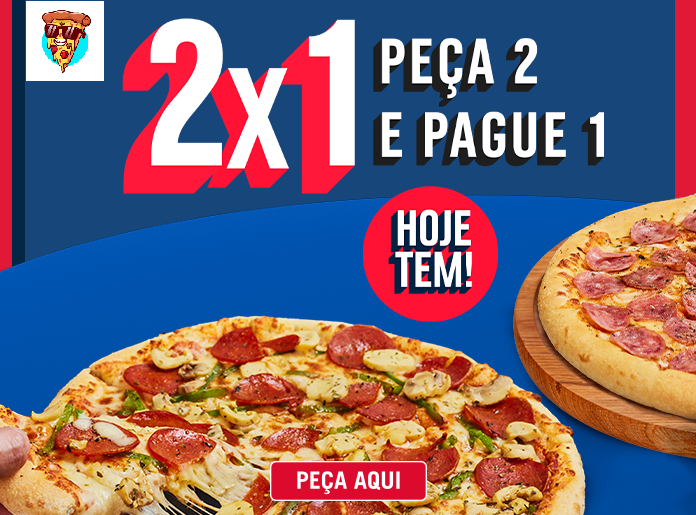
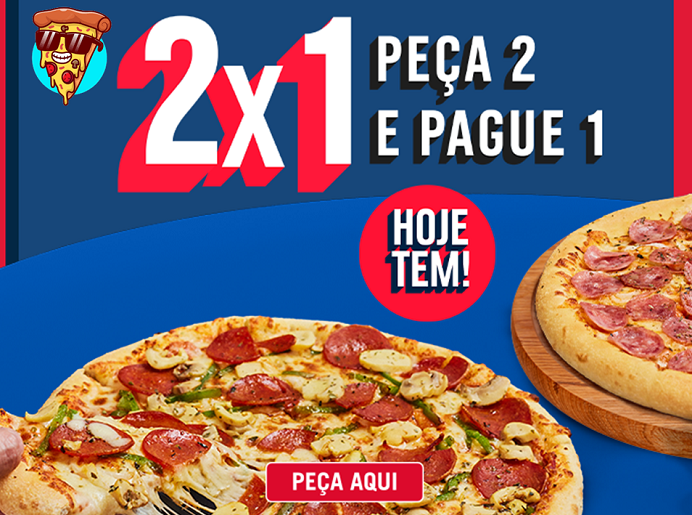
a

diff --git a/pizzas/pizzaria.html b/pizzas/pizzaria.html
@@ -2,13 +2,14 @@
 <!DOCTYPE html>
 <html lang="pt-br">
 <head>
+    <title>'s Home Page - PUZZA's Pizza, Order Pizza Online for Delivery - PUZZA.com</title>
     <meta charset="UTF-8">
+    <link rel="shortcut icon" href="./images-removebg-preview.png">
     <meta http-equiv="X-UA-Compatible" content="IE=edge">
     <meta name="viewport" content="width=device-width, initial-scale=1.0">
-    <title>PUZZA's Home Page - PUZZA's Pizza, Order Pizza Online for Delivery - PUZZA.com</title>
     <header>
         <div>
-            <a href="http://127.0.0.1:5500/pizzas/pizzaria.html"><img src="./images.png" alt="error" id="foto"></a>
+            <a href="http://127.0.0.1:5500/pizzas/pizzaria.html"><img src="./images-removebg-preview.png" alt="error" id="foto"></a>
         </div>
          <div id="titulo">PUZZA's PIZZA</div>
          <button>LOGIN</button>

diff --git a/pizzas/pizzaint.css b/pizzas/pizzaint.css
@@ -104,8 +104,8 @@ button:hover{
 #img1{
     width: 215px;
     height: 259px;
-    left: 860px;
-    top: 115px;
+    left: 54.5em;
+    top: 120px;
     position: absolute;
 }
 #logos{
@@ -117,4 +117,7 @@ button:hover{
     text-decoration: none;
     color: aliceblue;
     cursor: pointer;
+}
+#logos a:hover{
+    color: rgb(202, 195, 195);
 }
